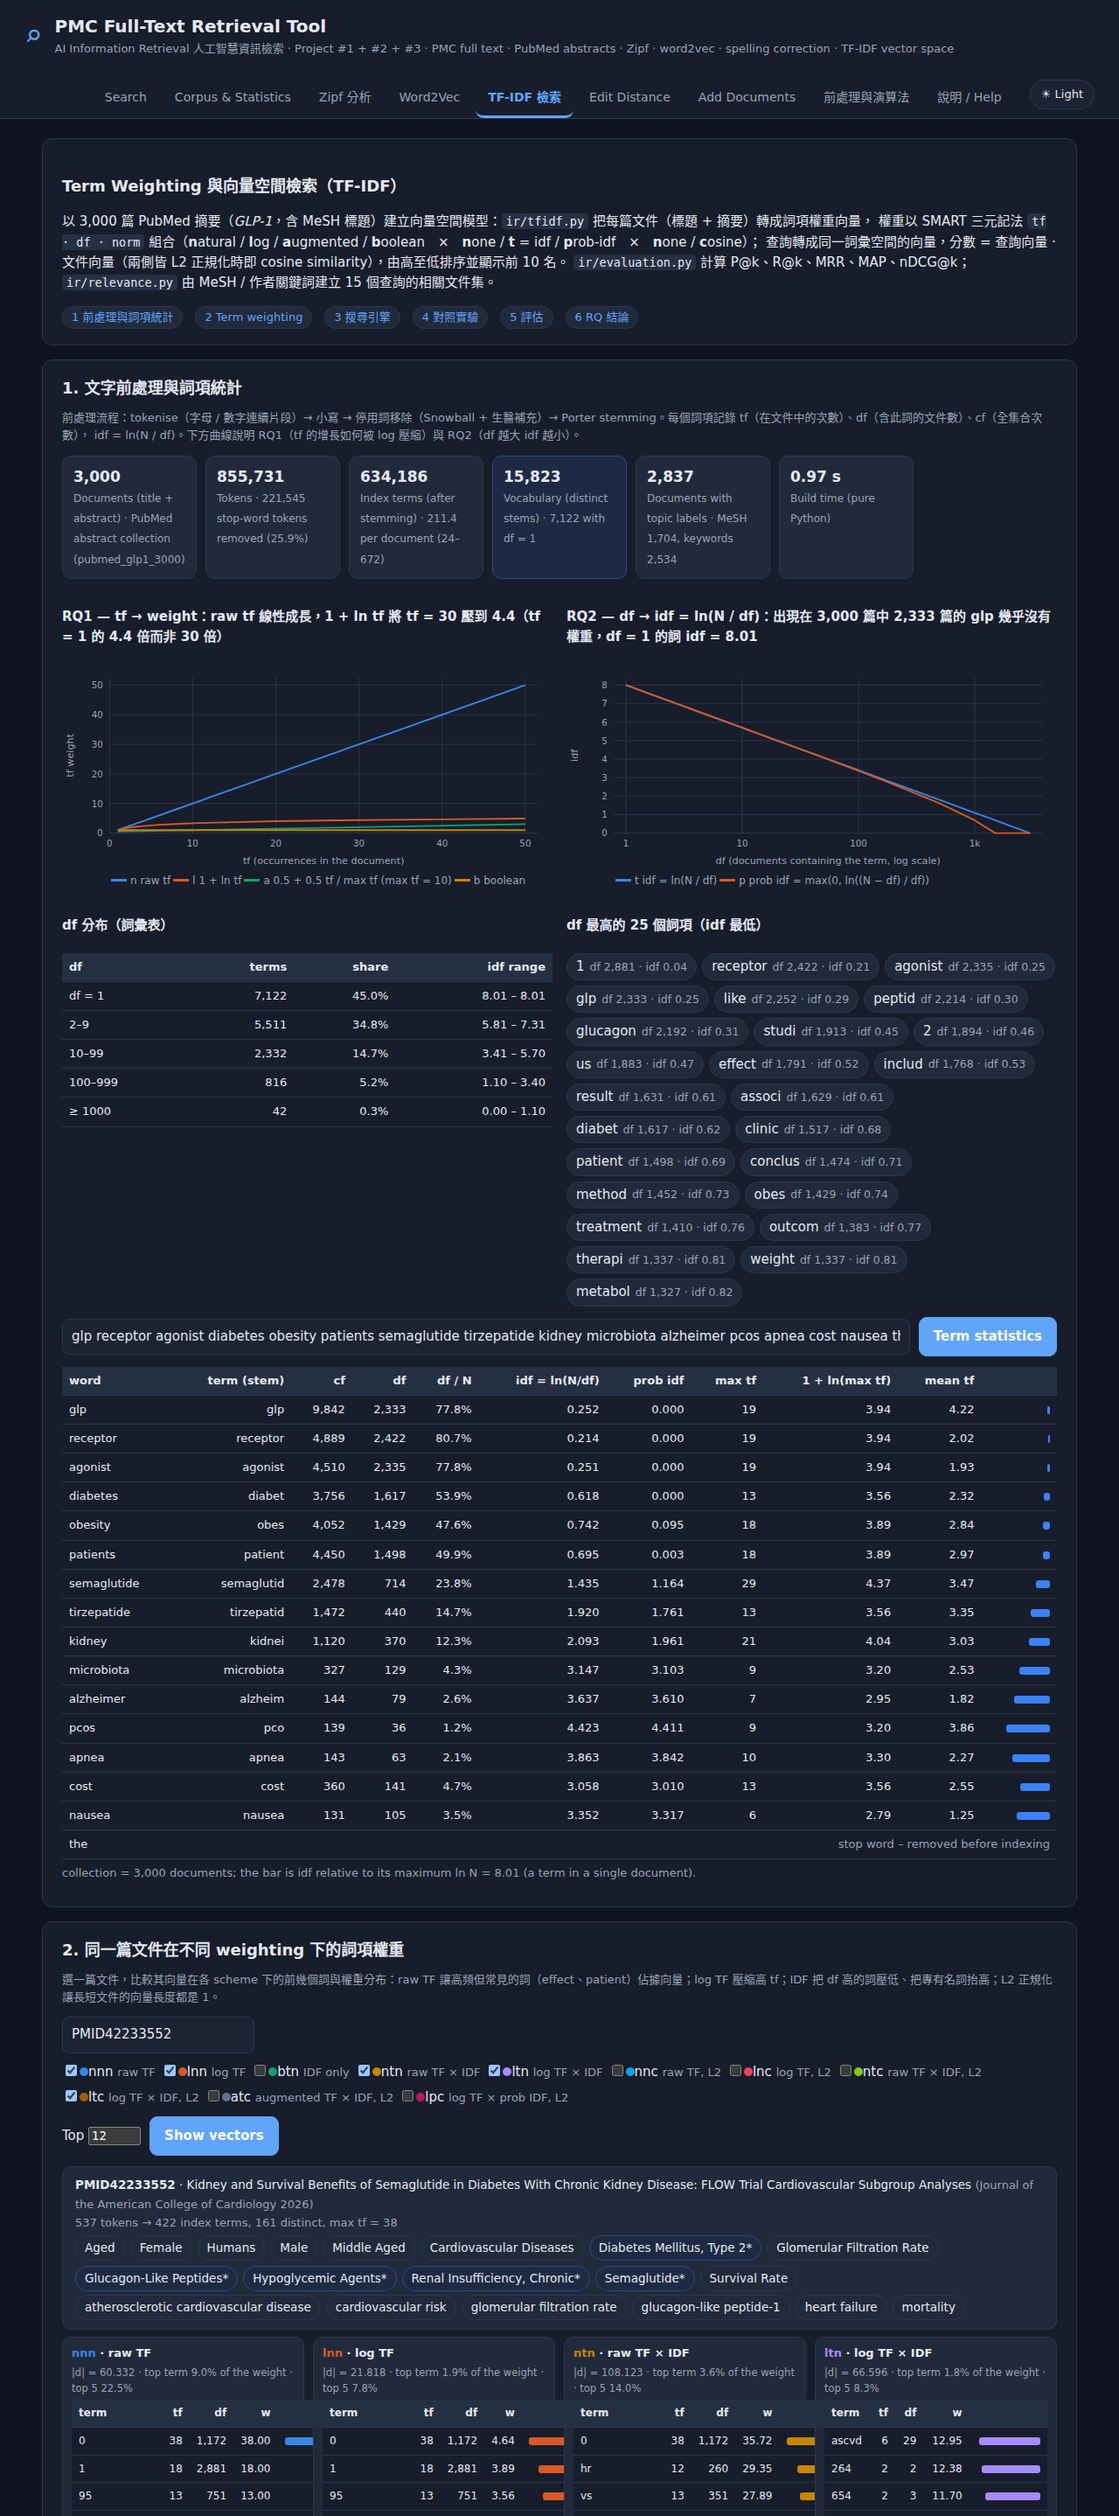
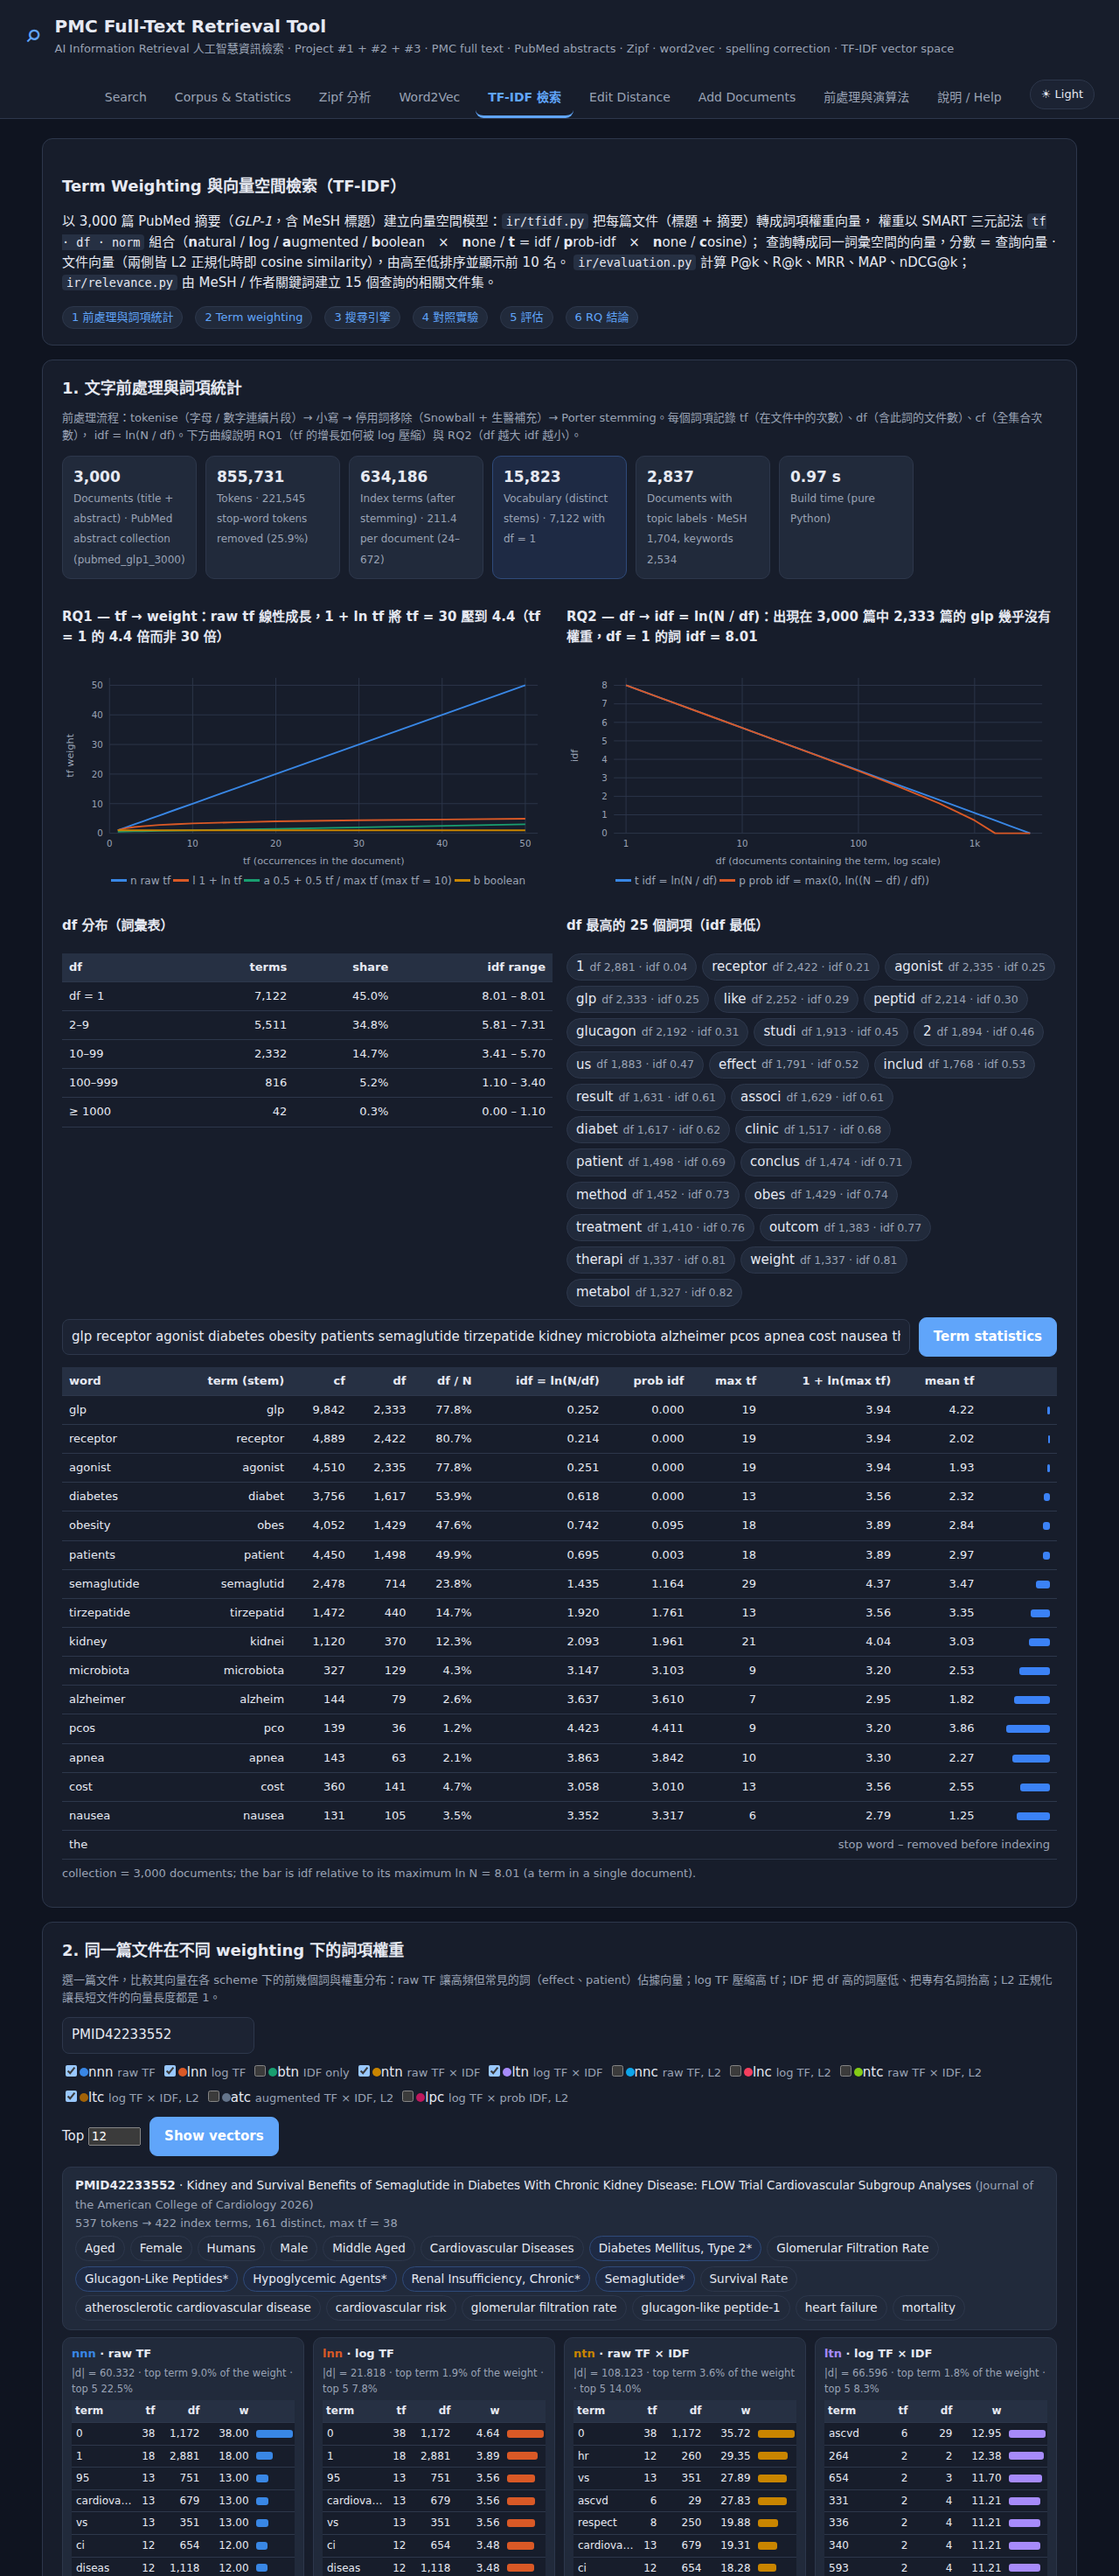
web: keep TF-IDF tab tables inside their cards (sections 2 and 5)
- section 2: per-scheme vector tables use a fixed column layout with
  percentage-width bars so they no longer overflow the scheme card
- section 5: query table, relevant-set, evaluation, per-query and
  section 1/4 tables sit in a horizontal-scroll wrapper; rule column wraps
- refreshed docs/screenshots/project3-vsm-*.png

diff --git a/static/tfidf.js b/static/tfidf.js
@@ -61,9 +61,9 @@
     try {
       const r = await api('/api/vsm/terms?' + new URLSearchParams({ terms: $('#vt-terms').value }));
       const N = r.documents, maxIdf = Math.log(N);
-      box.innerHTML = `<table class="grid num"><tr><th>word</th><th>term (stem)</th><th>cf</th><th>df</th><th>df / N</th><th>idf = ln(N/df)</th><th>prob idf</th><th>max tf</th><th>1 + ln(max tf)</th><th>mean tf</th><th></th></tr>
+      box.innerHTML = `<div class="tscroll"><table class="grid num"><tr><th>word</th><th>term (stem)</th><th>cf</th><th>df</th><th>df / N</th><th>idf = ln(N/df)</th><th>prob idf</th><th>max tf</th><th>1 + ln(max tf)</th><th>mean tf</th><th></th></tr>
         ${r.rows.map(t => t.stopword ? `<tr><td>${esc(t.word)}</td><td class="muted" colspan="10">stop word – removed before indexing</td></tr>`
-          : `<tr><td>${esc(t.word)}</td><td>${esc(t.term)}${t.df ? '' : ' <span class="muted">(not in collection)</span>'}</td><td>${fmt(t.cf)}</td><td>${fmt(t.df)}</td><td>${pct(t.df_share)}</td><td>${f(t.idf, 3)}</td><td>${f(t.prob_idf, 3)}</td><td>${t.max_tf}</td><td>${f(t.log_max_tf, 2)}</td><td>${f(t.mean_tf, 2)}</td><td><span class="wbar" style="width:${Math.round(t.idf / maxIdf * 90)}px" title="idf"></span></td></tr>`).join('')}</table>
+          : `<tr><td>${esc(t.word)}</td><td>${esc(t.term)}${t.df ? '' : ' <span class="muted">(not in collection)</span>'}</td><td>${fmt(t.cf)}</td><td>${fmt(t.df)}</td><td>${pct(t.df_share)}</td><td>${f(t.idf, 3)}</td><td>${f(t.prob_idf, 3)}</td><td>${t.max_tf}</td><td>${f(t.log_max_tf, 2)}</td><td>${f(t.mean_tf, 2)}</td><td><span class="wbar" style="width:${Math.round(t.idf / maxIdf * 90)}px" title="idf"></span></td></tr>`).join('')}</table></div>
         <p class="hint" style="margin-top:6px">collection = ${fmt(N)} documents; the bar is idf relative to its maximum ln N = ${f(maxIdf, 2)} (a term in a single document).</p>`;
     } catch (e) { err(box, e); }
   }
@@ -103,8 +103,8 @@
         const max = v.vector[0] ? v.vector[0].weight : 1;
         return `<div class="vcol"><h4><span style="color:${colorOf(v.scheme)}">${esc(v.scheme)}</span> · ${esc(st.info.schemes.find(s => s.scheme === v.scheme)?.name || '')}</h4>
           <div class="muted">|d| = ${f(v.norm, 3)} · top term ${pct(v.top_share)} of the weight · top 5 ${pct(v.top5_share)}</div>
-          <table class="grid num" style="font-size:12px;margin-top:4px"><tr><th>term</th><th>tf</th><th>df</th><th>w</th><th></th></tr>
-          ${v.vector.map(r => `<tr><td>${esc(r.term)}</td><td>${r.tf}</td><td>${fmt(r.df)}</td><td title="tf_w ${r.tf_w} × df_w ${r.df_w}">${f(r.weight, v.scheme.endsWith('c') ? 4 : 2)}</td><td><span class="wbar" style="width:${Math.max(2, Math.round(r.weight / max * 70))}px;background:${colorOf(v.scheme)}"></span></td></tr>`).join('')}</table></div>`;
+          <table class="grid num vtab"><tr><th>term</th><th>tf</th><th>df</th><th>w</th><th></th></tr>
+          ${v.vector.map(r => `<tr><td title="${esc(r.term)}">${esc(r.term)}</td><td>${r.tf}</td><td>${fmt(r.df)}</td><td title="tf_w ${r.tf_w} × df_w ${r.df_w}">${f(r.weight, v.scheme.endsWith('c') ? 4 : 2)}</td><td class="bar"><span class="wbar" style="width:${Math.max(3, Math.round(r.weight / max * 100))}%;background:${colorOf(v.scheme)}"></span></td></tr>`).join('')}</table></div>`;
       }).join('') + '</div>';
       const vec = d.vectors;
       if (vec.length >= 2) {
@@ -168,9 +168,9 @@
       const base = r.schemes[0];
       let h = `<div class="analysis">${r.terms.map(t => t.term ? `<span class="chip term">${esc(t.word)} → <b>${esc(t.term)}</b> <small>df ${fmt(t.df)} · idf ${f(t.idf, 2)}</small></span>` : `<span class="chip stopword">${esc(t.word)}</span>`).join('')}
         <span class="muted">base = ${esc(r.base)}; mean document length ${r.avg_length}${r.query_id ? `; evaluation query ${esc(r.query_id)}` : ''}</span></div>
-        <table class="grid num"><tr><th>scheme</th><th>name</th><th>scored docs</th><th>overlap@${r.k} vs ${esc(r.base)}</th><th>Kendall τ</th><th>mean length of top ${r.k}</th><th>mean max tf</th>${r.query_id ? '<th>P@5</th><th>P@10</th><th>R@10</th><th>AP</th><th>nDCG@10</th>' : ''}</tr>
+        <div class="tscroll"><table class="grid num"><tr><th>scheme</th><th>name</th><th>scored docs</th><th>overlap@${r.k} vs ${esc(r.base)}</th><th>Kendall τ</th><th>mean length of top ${r.k}</th><th>mean max tf</th>${r.query_id ? '<th>P@5</th><th>P@10</th><th>R@10</th><th>AP</th><th>nDCG@10</th>' : ''}</tr>
         ${r.schemes.map(s => `<tr><td><b style="color:${colorOf(s.scheme)}">${esc(s.scheme)}</b></td><td>${esc(s.info.name)}</td><td>${fmt(s.total)}</td><td>${f(s.overlap, 2)}</td><td>${f(s.tau, 2)}</td><td>${s.mean_length}</td><td>${s.mean_max_tf}</td>
-          ${s.measures ? `<td>${f(s.measures['P@5'], 2)}</td><td>${f(s.measures['P@10'], 2)}</td><td>${f(s.measures['R@10'], 3)}</td><td>${f(s.measures.AP, 3)}</td><td>${f(s.measures['nDCG@10'], 3)}</td>` : ''}</tr>`).join('')}</table>`;
+          ${s.measures ? `<td>${f(s.measures['P@5'], 2)}</td><td>${f(s.measures['P@10'], 2)}</td><td>${f(s.measures['R@10'], 3)}</td><td>${f(s.measures.AP, 3)}</td><td>${f(s.measures['nDCG@10'], 3)}</td>` : ''}</tr>`).join('')}</table></div>`;
       h += '<div class="vcols">' + r.schemes.map(s => `<div class="vcol"><h4><span style="color:${colorOf(s.scheme)}">${esc(s.scheme)}</span> · ${esc(s.info.name)}</h4>
         <ol>${s.top.map(t => `<li class="${t.grade ? 'rel' + t.grade : ''}" title="${esc(t.title)}">${esc(t.title.length > 70 ? t.title.slice(0, 70) + '…' : t.title)}
           <span class="mv">score ${f(t.score, 3)} · len ${t.length} · max tf ${t.max_tf}${s.scheme !== r.base ? ` · ${t.rank_base ? '#' + t.rank_base + ' under ' + esc(r.base) : 'not in ' + esc(r.base)}` : ''}${t.grade != null ? ' · rel ' + t.grade : ''}</span></li>`).join('')}</ol></div>`).join('') + '</div>';
@@ -189,10 +189,10 @@
       st.queries = r;
       $('#vq-examples').innerHTML = '<span class="muted">evaluation queries:</span> ' + r.queries.map(q => `<a href="#" data-q="${esc(q.text)}" title="${esc(q.description)} · ${q.relevant} relevant">${esc(q.id)}</a>`).join('');
       $$('#vq-examples a').forEach(a => a.addEventListener('click', e => { e.preventDefault(); $('#vq').value = a.dataset.q; search(); }));
-      box.innerHTML = `<table class="grid"><tr><th>id</th><th style="min-width:270px">query</th><th style="text-align:right">relevant</th><th style="text-align:right">grade 2 / 1</th><th style="text-align:right">via MeSH</th><th style="text-align:right">keywords only</th><th style="text-align:right">manual</th><th>rule (every group must match a label)</th><th></th></tr>
+      box.innerHTML = `<div class="tscroll"><table class="grid qtab"><tr><th>id</th><th>query</th><th style="text-align:right">relevant</th><th style="text-align:right">grade 2 / 1</th><th style="text-align:right">via MeSH</th><th style="text-align:right">keywords only</th><th style="text-align:right">manual</th><th>rule (every group must match a label)</th><th></th></tr>
         ${r.queries.map(q => `<tr><td>${esc(q.id)}</td><td class="t"><b>${esc(q.text)}</b><br><span class="muted">${esc(q.description)}</span></td><td style="text-align:right">${q.relevant}</td><td style="text-align:right">${q.grade2} / ${q.grade1}</td><td style="text-align:right">${q.from_mesh}</td><td style="text-align:right">${q.from_keyword_only}</td><td style="text-align:right">${q.manual}</td>
-          <td class="t" style="font-size:11px;font-family:ui-monospace,Menlo,monospace;max-width:420px">${q.groups.map(g => '(' + g.map(esc).join(' | ') + ')').join(' AND ')}</td>
-          <td><a href="#" data-rel="${esc(q.id)}">relevant set</a> · <a href="#" data-run="${esc(q.text)}">search</a></td></tr>`).join('')}</table>
+          <td class="t rule">${q.groups.map(g => '(' + g.map(esc).join(' | ') + ')').join(' AND ')}</td>
+          <td><a href="#" data-rel="${esc(q.id)}">relevant set</a> · <a href="#" data-run="${esc(q.text)}">search</a></td></tr>`).join('')}</table></div>
         <p class="hint" style="margin-top:6px">${fmt(r.labelled)} of ${fmt(r.documents)} documents carry at least one label (${pct(r.labelled / r.documents)}); the rest can never be judged relevant. File: <code>${esc(r.file)}</code></p>`;
       $$('a[data-rel]', box).forEach(a => a.addEventListener('click', e => { e.preventDefault(); relevantSet(a.dataset.rel); }));
       $$('a[data-run]', box).forEach(a => a.addEventListener('click', e => { e.preventDefault(); $('#vq').value = a.dataset.run; search(); location.hash = '#vsm-s3'; $('#vsm-s3').scrollIntoView(); }));
@@ -207,8 +207,8 @@
       const r = await api('/api/vsm/relevant?' + new URLSearchParams({ id: qid, scheme }));
       const m = r.measures;
       box.innerHTML = `<h4 style="margin:12px 0 4px">Relevant set of ${esc(r.query.id)} — “${esc(r.query.text)}” (${m.relevant} documents; rank under <b>${esc(scheme)}</b>: P@10 ${f(m['P@10'], 2)}, R@10 ${f(m['R@10'], 3)}, AP ${f(m.AP, 3)}, nDCG@10 ${f(m['nDCG@10'], 3)}; ${fmt(r.retrieved)} documents scored)</h4>
-        <table class="grid"><tr><th style="text-align:right">rank</th><th>grade</th><th>document</th><th style="text-align:right">length</th><th>matched labels (* = MeSH major topic)</th></tr>
-        ${r.relevant.map(d => `<tr><td style="text-align:right">${d.rank || '<span class="muted">not retrieved</span>'}</td><td>${gradeTag(d.grade, d.matched)}${d.manual ? ' <small class="muted">manual</small>' : ''}</td><td class="t">${esc(d.title)} <span class="muted">${esc(d.doc_id)}</span></td><td style="text-align:right">${d.length}</td><td class="t" style="font-size:12px">${d.matched.map(esc).join(', ')}</td></tr>`).join('')}</table>`;
+        <div class="tscroll"><table class="grid"><tr><th style="text-align:right">rank</th><th>grade</th><th>document</th><th style="text-align:right">length</th><th>matched labels (* = MeSH major topic)</th></tr>
+        ${r.relevant.map(d => `<tr><td style="text-align:right">${d.rank || '<span class="muted">not retrieved</span>'}</td><td>${gradeTag(d.grade, d.matched)}${d.manual ? ' <small class="muted">manual</small>' : ''}</td><td class="t">${esc(d.title)} <span class="muted">${esc(d.doc_id)}</span></td><td style="text-align:right">${d.length}</td><td class="t" style="font-size:12px">${d.matched.map(esc).join(', ')}</td></tr>`).join('')}</table></div>`;
       box.scrollIntoView({ block: 'start' });
     } catch (e) { err(box, e); }
   }
@@ -223,8 +223,8 @@
       st.evalData = r;
       const best = {};
       MEASURES.forEach(k => { best[k] = Math.max(...r.schemes.map(s => s.mean[k])); });
-      let h = `<table class="grid num" id="ve-table"><tr><th>scheme</th><th>name</th>${MEASURES.map(k => `<th>${k}</th>`).join('')}</tr>
-        ${r.schemes.map(s => `<tr><td><b style="color:${colorOf(s.scheme)}">${esc(s.scheme)}</b></td><td>${esc(s.info.name)}</td>${MEASURES.map(k => `<td class="${s.mean[k] === best[k] ? 'best' : ''}">${f(s.mean[k], 3)}</td>`).join('')}</tr>`).join('')}</table>
+      let h = `<div class="tscroll"><table class="grid num" id="ve-table"><tr><th>scheme</th><th>name</th>${MEASURES.map(k => `<th>${k}</th>`).join('')}</tr>
+        ${r.schemes.map(s => `<tr><td><b style="color:${colorOf(s.scheme)}">${esc(s.scheme)}</b></td><td>${esc(s.info.name)}</td>${MEASURES.map(k => `<td class="${s.mean[k] === best[k] ? 'best' : ''}">${f(s.mean[k], 3)}</td>`).join('')}</tr>`).join('')}</table></div>
         <p class="hint">mean over ${r.queries.length} queries${r.condensed ? ' (condensed lists: unlabelled documents removed before measuring)' : ' (unlabelled documents count as not relevant)'}; best value per column in bold.</p>
         <div class="row" style="margin:8px 0"><label>Chart / per-query measure <select id="ve-measure">${MEASURES.map(k => `<option${k === 'nDCG@10' ? ' selected' : ''}>${k}</option>`).join('')}</select></label></div>
         <div class="two"><div id="ve-chart"></div><div id="ve-chart2"></div></div>
@@ -240,9 +240,9 @@
           <table class="grid num"><tr><th>tf \\ idf · norm</th><th>no idf, no norm</th><th>idf, no norm</th><th>no idf, L2</th><th>idf, L2</th></tr>
           ${[['n', 'raw tf'], ['l', 'log tf']].map(([t, name]) => `<tr><td>${name}</td>${[t + 'nn', t + 'tn', t + 'nc', t + 'tc'].map(s => `<td>${val(s) != null ? f(val(s), 3) : '–'}</td>`).join('')}</tr>`).join('')}</table>
           <p class="hint">讀法：同一列比較 idf / 正規化的效果，同一欄比較 raw vs log tf。</p>` : '';
-        $('#ve-perq').innerHTML = `<h4>${esc(k)} per query</h4><table class="grid num"><tr><th>query</th>${r.schemes.map(s => `<th style="color:${colorOf(s.scheme)}">${esc(s.scheme)}</th>`).join('')}<th>relevant</th></tr>
+        $('#ve-perq').innerHTML = `<h4>${esc(k)} per query</h4><div class="tscroll"><table class="grid num"><tr><th>query</th>${r.schemes.map(s => `<th style="color:${colorOf(s.scheme)}">${esc(s.scheme)}</th>`).join('')}<th>relevant</th></tr>
           ${r.queries.map((q, i) => { const vals = r.schemes.map(s => s.per_query[i][k]); const mx = Math.max(...vals);
-            return `<tr><td title="${esc(q.text)}">${esc(q.id)} <span class="muted">${esc(q.text.length > 44 ? q.text.slice(0, 44) + '…' : q.text)}</span></td>${vals.map(v => `<td class="${v === mx ? 'best' : ''}">${f(v, 3)}</td>`).join('')}<td>${q.relevant}</td></tr>`; }).join('')}</table>`;
+            return `<tr><td title="${esc(q.text)}">${esc(q.id)} <span class="muted">${esc(q.text.length > 44 ? q.text.slice(0, 44) + '…' : q.text)}</span></td>${vals.map(v => `<td class="${v === mx ? 'best' : ''}">${f(v, 3)}</td>`).join('')}<td>${q.relevant}</td></tr>`; }).join('')}</table></div>`;
       };
       $('#ve-measure').addEventListener('change', draw);
       draw();

diff --git a/static/style.css b/static/style.css
@@ -322,8 +322,16 @@ table.cmp td:first-child{font-weight:600;width:170px}
 :root[data-theme="dark"] .grade.g1{background:#14532d;border-color:#166534;color:#bbf7d0}:root[data-theme="dark"] .grade.g2{background:#166534;border-color:#22c55e;color:#dcfce7}
 .judge{display:inline-flex;gap:3px;margin-left:8px}.judge button{padding:1px 7px;font-size:11px;border-radius:6px}
 .judge button.on{background:var(--accent);color:#fff;border-color:var(--accent)}
-.vcols{display:grid;grid-template-columns:repeat(auto-fit,minmax(230px,1fr));gap:10px;margin-top:8px}
-.vcol{background:var(--surface2);border:1px solid var(--line);border-radius:10px;padding:8px 10px;font-size:12.5px}
+.tscroll{overflow-x:auto;max-width:100%;-webkit-overflow-scrolling:touch}
+.tscroll>table.grid th{position:static}
+.vcols{display:grid;grid-template-columns:repeat(auto-fit,minmax(270px,1fr));gap:10px;margin-top:8px}
+.vcol{background:var(--surface2);border:1px solid var(--line);border-radius:10px;padding:8px 10px;font-size:12.5px;min-width:0;overflow:hidden}
+.vcol table.vtab{table-layout:fixed;width:100%;font-size:12px;margin-top:4px}
+.vcol table.vtab th,.vcol table.vtab td{padding:3px 4px;overflow:hidden;text-overflow:ellipsis}.vcol table.vtab td:first-child{padding-left:5px}
+.vcol table.vtab th:nth-child(1){width:29%}.vcol table.vtab th:nth-child(2){width:10%}.vcol table.vtab th:nth-child(3){width:20%}.vcol table.vtab th:nth-child(4){width:22%}.vcol table.vtab th:nth-child(5){width:19%}
+.vcol table.vtab td.bar{padding-right:2px}.vcol table.vtab td.bar .wbar{display:block}
+table.qtab th:nth-child(2){min-width:200px}table.qtab td.rule{font-size:11px;font-family:ui-monospace,Menlo,monospace;max-width:300px;overflow-wrap:anywhere}
+table.qtab td:last-child{white-space:nowrap}
 .vcol h4{margin:0 0 4px;font-size:13px}.vcol .muted{font-size:11.5px}
 .vcol ol{margin:4px 0 0;padding-left:20px}.vcol li{margin:1px 0;line-height:1.3}
 .vcol li.rel1{background:#dcfce7}.vcol li.rel2{background:#bbf7d0}
